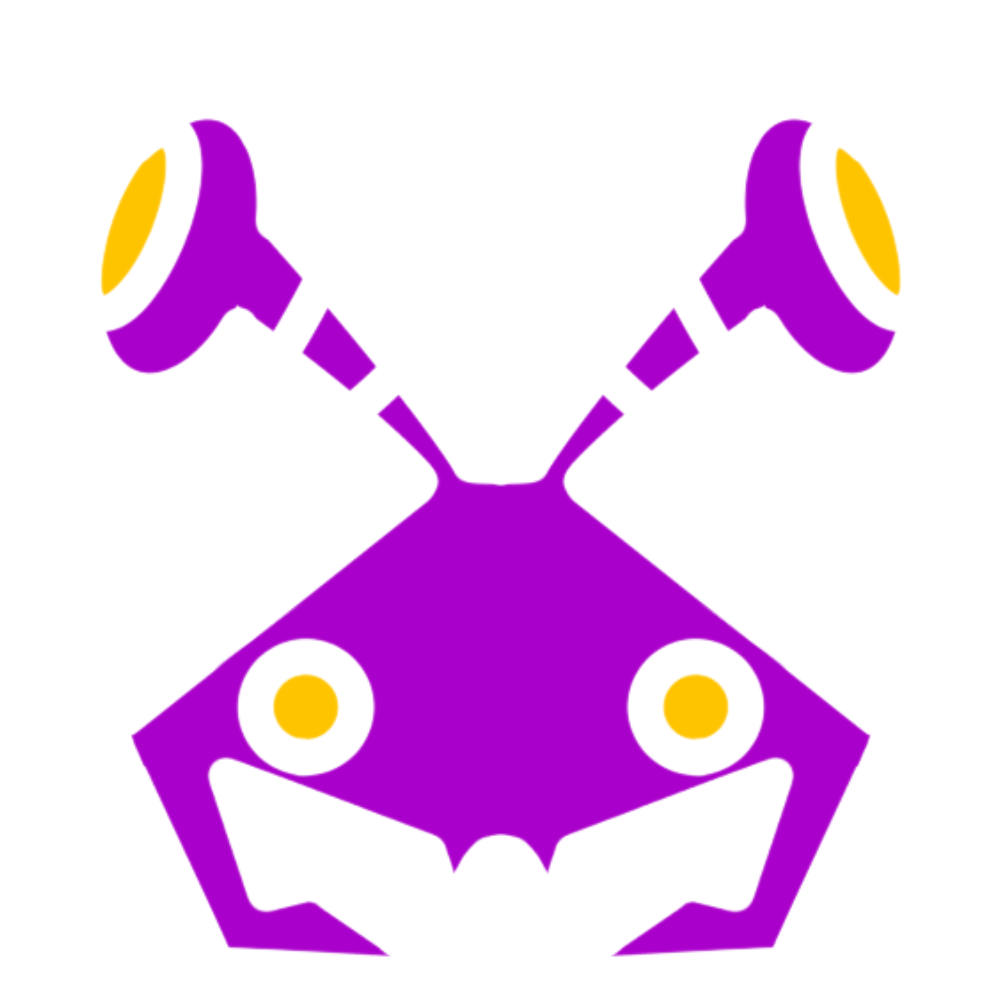
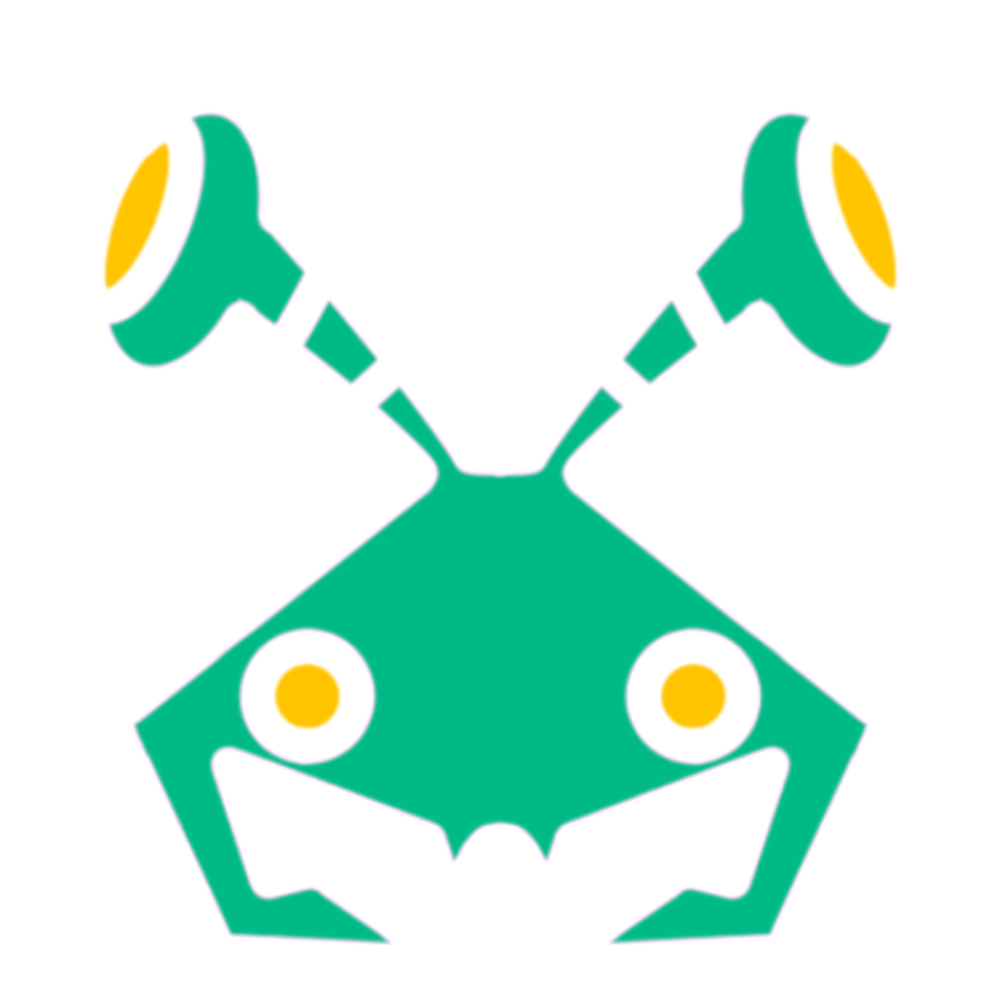
game css

Changed region(s): [[0.093, 0.093, 0.899, 0.961]]

diff --git a/client/src/Components/Game.css b/client/src/Components/Game.css
@@ -8,7 +8,7 @@
     margin:0;
     width:83px;
     height:62px;
-    background-image: url(../images/Alien3.png);
+    background-image: url(../images/Alien.png);
     background-size: 45px;
     background-repeat: no-repeat;
     background-position: 50%;
